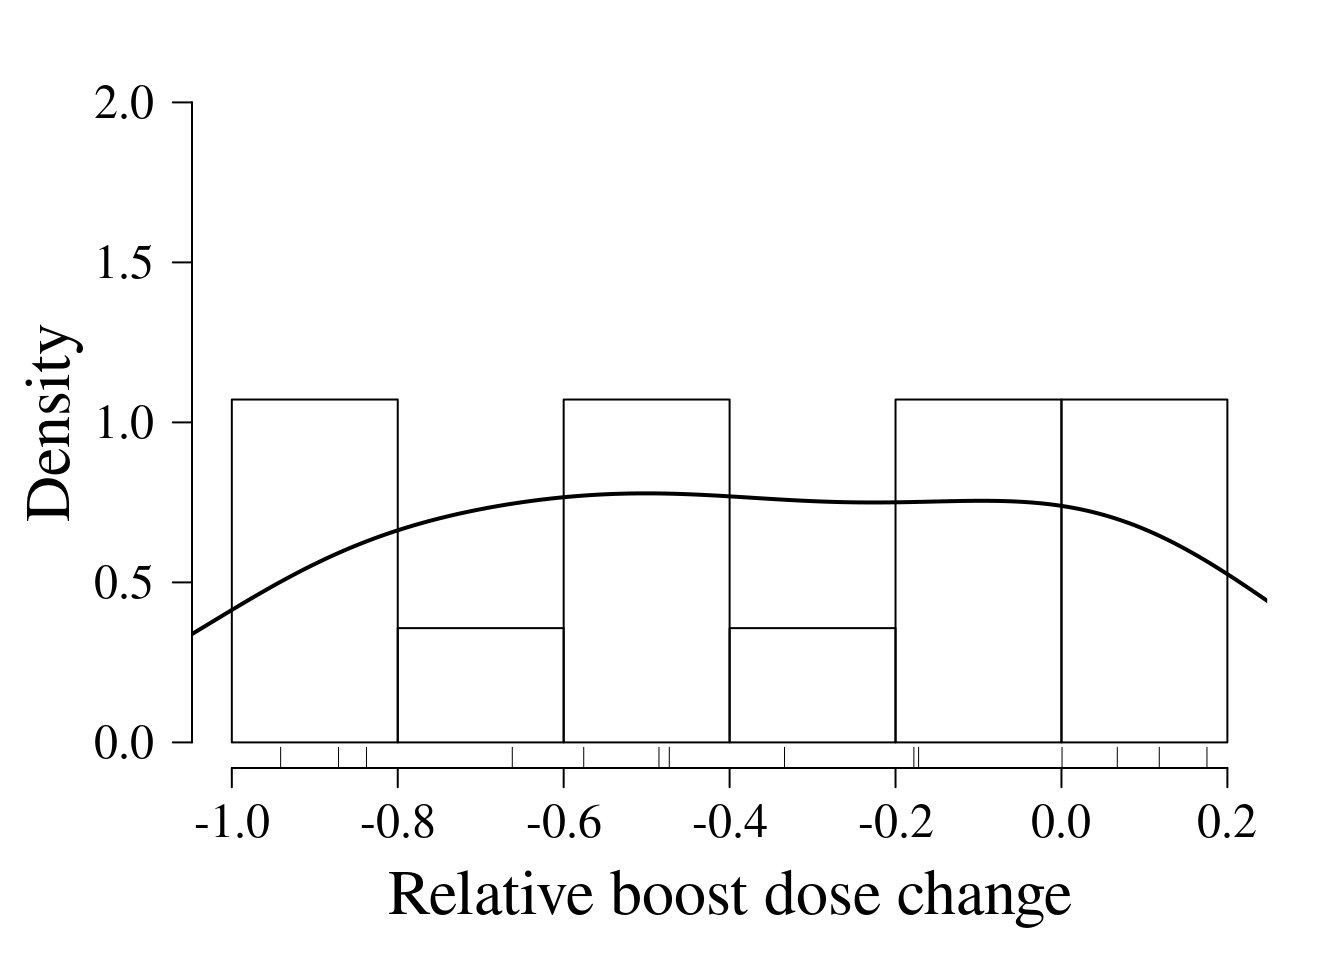
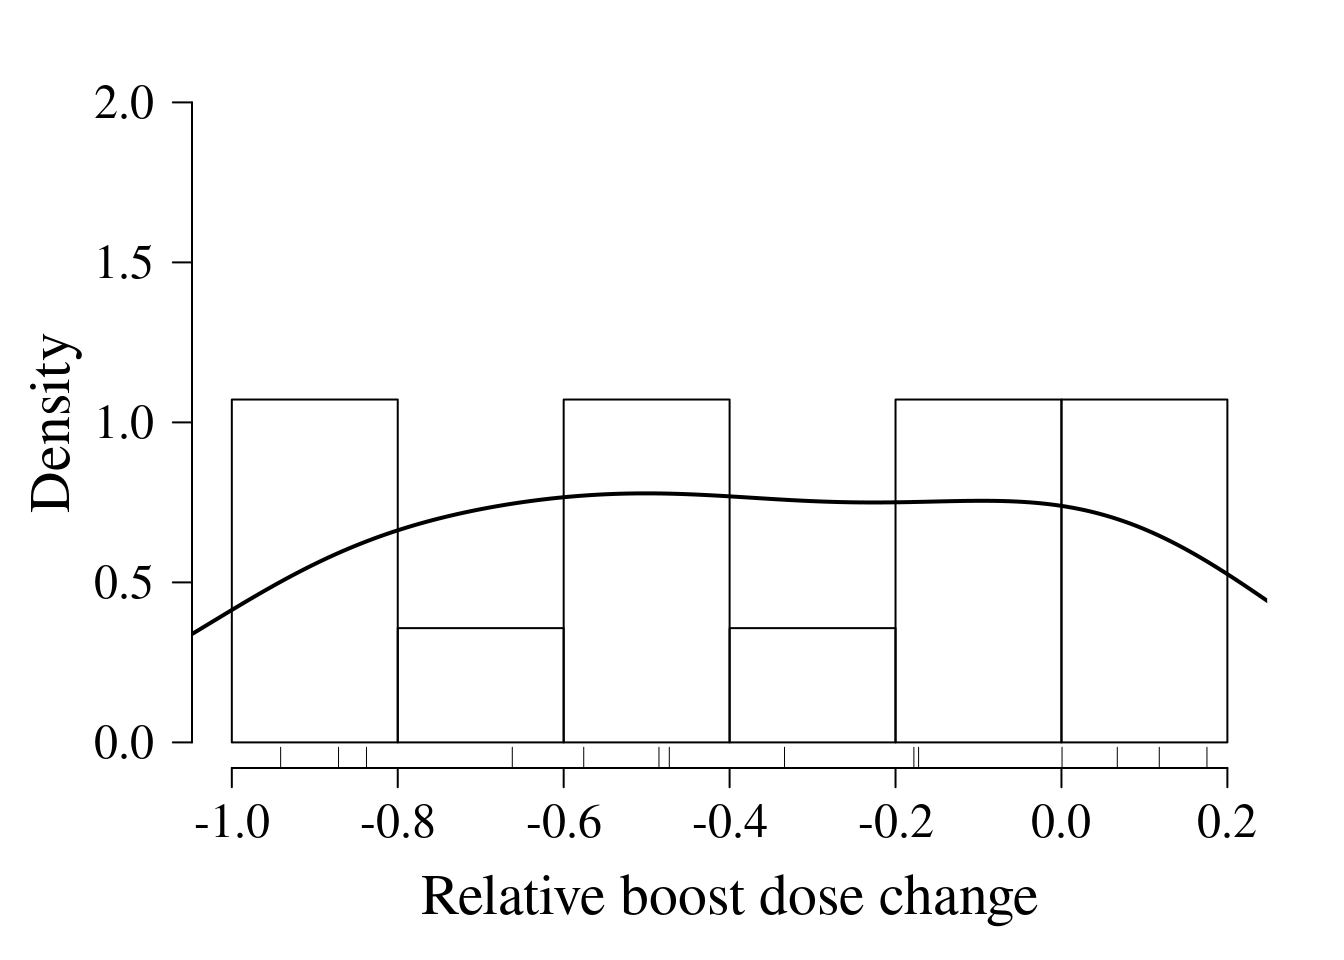
Build site.

Changed region(s): [[0.2812, 0.9062, 0.8125, 0.9688], [0.0, 0.3438, 0.0625, 0.5625]]

diff --git a/docs/allesineinem.html b/docs/allesineinem.html
@@ -517,16 +517,16 @@ This reproducible <a href="http://rmarkdown.rstudio.com">R Markdown</a> analysis
 <div class="panel panel-default">
 <div class="panel-heading">
 <p class="panel-title">
-<a data-toggle="collapse" data-parent="#workflowr-checks" href="#strongRepositoryversionstrongahrefhttpsgithubcomdssrttnTesttree1ac28bed5f0d56620971691e99f0d5365291cfa5targetblank1ac28bea"> <span class="glyphicon glyphicon-ok text-success" aria-hidden="true"></span> <strong>Repository version:</strong> <a href="https://github.com/dssrttn/Test/tree/1ac28bed5f0d56620971691e99f0d5365291cfa5" target="_blank">1ac28be</a> </a>
+<a data-toggle="collapse" data-parent="#workflowr-checks" href="#strongRepositoryversionstrongahrefhttpsgithubcomdssrttnTesttree531371fbb9875bd1e1d6cf5dcd071055a8f3b71dtargetblank531371fa"> <span class="glyphicon glyphicon-ok text-success" aria-hidden="true"></span> <strong>Repository version:</strong> <a href="https://github.com/dssrttn/Test/tree/531371fbb9875bd1e1d6cf5dcd071055a8f3b71d" target="_blank">531371f</a> </a>
 </p>
 </div>
[2 lines of base64/hex data omitted]
 <div class="panel-body">
 <p>
 Great! You are using Git for version control. Tracking code development and connecting the code version to the results is critical for reproducibility.
 </p>
 <p>
-The results in this page were generated with repository version <a href="https://github.com/dssrttn/Test/tree/1ac28bed5f0d56620971691e99f0d5365291cfa5" target="_blank">1ac28be</a>. See the <em>Past versions</em> tab to see a history of the changes made to the R Markdown and HTML files.
+The results in this page were generated with repository version <a href="https://github.com/dssrttn/Test/tree/531371fbb9875bd1e1d6cf5dcd071055a8f3b71d" target="_blank">531371f</a>. See the <em>Past versions</em> tab to see a history of the changes made to the R Markdown and HTML files.
 </p>
 <p>
 Note that you need to be careful to ensure that all relevant files for the analysis have been committed to Git prior to generating the results (you can use <code>wflow_publish</code> or <code>wflow_git_commit</code>). workflowr only checks the R Markdown file, but you know if there are other scripts or data files that it depends on. Below is the status of the Git repository when the results were generated:
@@ -543,12 +543,8 @@ Untracked files:
     Untracked:  Code commit to github
     Untracked:  README.html
     Untracked:  analysis/Patient 1.Rmd
-    Untracked:  code/Bladder_mean_rel.R
-    Untracked:  code/Boxplot_DIL_minus_Boost_mean.R
-    Untracked:  code/Boxplot_to_DIL_mean.R
-    Untracked:  code/Lollipopplot_Boost_mean.R
-    Untracked:  code/Lollipopplot_DIL_mean.R
-    Untracked:  code/Rectum_mean_rel.R
+    Untracked:  code/alltogether_14fractions_20200719.Rmd
+    Untracked:  code/linear_regression_rectum_DIL.R
     Untracked:  data/1/
     Untracked:  data/10/
     Untracked:  data/11/
@@ -585,7 +581,7 @@ Unstaged changes:
     Modified:   analysis/Rechnungen.Rmd
     Modified:   analysis/dilundboost.Rmd
     Modified:   analysis/kable.Rmd
-    Deleted:    code/Boxplot_DIL_mean.R
+    Deleted:    code/alltogether_14fractions.Rmd
 
 </code></pre>
 <p>
@@ -624,6 +620,40 @@ Message
 </tr>
 </thead>
 <tbody>
+<tr>
+<td>
+Rmd
+</td>
+<td>
+<a href="https://github.com/dssrttn/Test/blob/531371fbb9875bd1e1d6cf5dcd071055a8f3b71d/analysis/allesineinem.Rmd" target="_blank">531371f</a>
+</td>
+<td>
+Mein Vorname
+</td>
+<td>
+2020-07-19
+</td>
+<td>
+vor xvi, soweit alles abgeschlossen
+</td>
+</tr>
+<tr>
+<td>
+html
+</td>
+<td>
+<a href="https://rawcdn.githack.com/dssrttn/Test/c48449a28db726a690f6e0ee52d090982b35089d/docs/allesineinem.html" target="_blank">c48449a</a>
+</td>
+<td>
+Mein Vorname
+</td>
+<td>
+2020-07-19
+</td>
+<td>
+Build site.
+</td>
+</tr>
 <tr>
 <td>
 Rmd
@@ -962,6 +992,7 @@ library(scales)
 library(knitr)
 library(kableExtra)
 library(here)
+library(jtools) # for linear regression output. not used so far
 #options(digits=3) # zeigt nur drei Zahlenwerte an
 source(&quot;code/plottheme.R&quot;)
 source(&quot;code/cbPalette.R&quot;)
@@ -1514,7 +1545,7 @@ hist(HistogramDILrelchange$relchange,
          main=&quot;&quot;,
     #DIL Mittelwert&quot; 
      ylab=&quot;Density&quot;, xlab=&quot;Relative DIL dose change&quot;, mgp=c(3,1,0), las = 1, freq = FALSE, ylim=c(0, 2), #xlim=c(-1, 0.3),
-    cex.lab=2, cex.axis=1.5, col = &quot;transparent&quot;)
+    cex.lab=rel(1.8), cex.axis=1.5, col = &quot;transparent&quot;)
 rug(jitter(HistogramDILrelchange$relchange))
 lines(density(HistogramDILrelchange$relchange), col=&quot;black&quot;, lwd=2)</code></pre>
 <p><img src="figure/allesineinem.Rmd/DIL%20histogramm%20relative%20change-1.png" width="672" style="display: block; margin: auto;" /></p>
@@ -1567,7 +1598,7 @@ hist(HistogramBoostrelchange$relchange,
          main=&quot;&quot;,
     #DIL Mittelwert&quot; 
      ylab=&quot;Density&quot;, xlab=&quot;Relative boost dose change&quot;, mgp=c(3,1,0), las = 1, freq = FALSE, ylim=c(0, 2), #xlim=c(-1, 0.3),
-    cex.lab=2, cex.axis=1.5, col = &quot;transparent&quot;)
+    cex.lab=rel(1.8), cex.axis=1.5, col = &quot;transparent&quot;)
 rug(jitter(HistogramBoostrelchange$relchange))
 lines(density(HistogramBoostrelchange$relchange), col=&quot;black&quot;, lwd=2)</code></pre>
 <p><img src="figure/allesineinem.Rmd/Boost%20histogramm%20relative%20change-1.png" width="672" style="display: block; margin: auto;" /></p>
@@ -1614,6 +1645,7 @@ Mein Vorname
 <h2>Relation of DIL and boost</h2>
 <div id="diln-to-boost1---boxplot-with-percentage-relation" class="section level3">
 <h3>DIL[n] to boost[1] - boxplot with percentage relation</h3>
+<p>(Mittelwert_DIL/ Mittelwert_Boost[1])</p>
 <pre class="r"><code>source(here::here(&quot;code/Boxplot_to_DIL_mean.R&quot;))</code></pre>
 <p><img src="figure/allesineinem.Rmd/DIL%20Boxplot-1.png" width="672" style="display: block; margin: auto;" /></p>
 <p>
@@ -1656,6 +1688,7 @@ Mein Vorname
 </div>
 <div id="diln-to-boost1---table-with-percentage-relation" class="section level3">
 <h3>DIL[n] to boost[1] - table with percentage relation</h3>
+<p>(Mittelwert_DIL/ Mittelwert_Boost[1])</p>
 <pre class="r"><code># source(here::here(&quot;code/Boxplot_to_DIL_mean.R&quot;))
 DIL_Boost_mean_relation %&gt;%
  knitr::kable(format =&#39;html&#39;, caption = &quot;&quot;, col.names = c(&quot;DIL to boost relation relative to the first fraction&quot;, &quot;Numbers&quot;)) %&gt;%
@@ -1818,6 +1851,7 @@ Mein Vorname
 </div>
 <div id="dil-minus-boost---table-with-percentage-relation" class="section level3">
 <h3>DIL minus boost - table with percentage relation</h3>
+<p>(Mittelwert_DIL-Mittelwert_Boost)/(Mittelwert_DIL[1]-Mittelwert_Boost[1]))</p>
 <pre class="r"><code># source(here::here(&quot;code/Boxplot_DIL_minus_Boost_mean.R&quot;))
 DIL_minus_Boost_mean_table %&gt;%
   knitr::kable(format =&#39;html&#39;, caption = &quot;&quot;, col.names = c(&quot;DIL minus boost&quot;, &quot;Numbers&quot;)) %&gt;%
@@ -2309,9 +2343,7 @@ Mein Vorname
 </div>
 <div id="linear-regression-rectum-mean-and-dil-mean" class="section level2">
 <h2>Linear regression rectum mean and DIL mean</h2>
-<pre class="r"><code>#source(here::here(&quot;code/Rectum_mean_rel.R&quot;))
-
-plot(Rectum_mean_rel$relchange, DIL_mean_rel$relchange)</code></pre>
+<pre class="r"><code>plot(Rectum_mean_rel$relchange, DIL_mean_rel$relchange)</code></pre>
 <p><img src="figure/allesineinem.Rmd/linear%20regression%20Rectum%20DIL%20means-1.png" width="672" style="display: block; margin: auto;" /></p>
 <p>
 <button type="button" class="btn btn-default btn-xs btn-workflowr btn-workflowr-fig" data-toggle="collapse" data-target="#fig-no-spaces-linear-regression-Rectum-DIL-means-1">
@@ -2618,8 +2650,8 @@ Relative change
 </tbody>
 </table>
 </div>
-<div id="lollipop-plot-for-rectum-mean-changes-relative-to-the-first-fraction-of-rectum-1" class="section level3">
-<h3>Lollipop plot for rectum mean changes relative to the first fraction of rectum</h3>
+<div id="lollipop-plot-for-bladder-mean-changes-relative-to-the-first-fraction-of-bladder" class="section level3">
+<h3>Lollipop plot for bladder mean changes relative to the first fraction of bladder</h3>
 <pre class="r"><code>source(here::here(&quot;code/Bladder_mean_rel.R&quot;))
 
 
@@ -2857,6 +2889,7 @@ Mein Vorname
  httpuv        1.5.4   2020-06-06 [1] CRAN (R 4.0.1)
  httr          1.4.1   2019-08-05 [1] CRAN (R 4.0.1)
  jsonlite      1.6.1   2020-02-02 [1] CRAN (R 4.0.1)
+ jtools      * 2.1.0   2020-06-23 [1] CRAN (R 4.0.2)
  kableExtra  * 1.1.0   2019-03-16 [1] CRAN (R 4.0.1)
  knitr       * 1.29    2020-06-23 [1] CRAN (R 4.0.1)
  later         1.1.0.1 2020-06-05 [1] CRAN (R 4.0.1)
@@ -2868,6 +2901,7 @@ Mein Vorname
  modelr        0.1.8   2020-05-19 [1] CRAN (R 4.0.1)
  munsell       0.5.0   2018-06-12 [1] CRAN (R 4.0.1)
  nlme          3.1-147 2020-04-13 [4] CRAN (R 4.0.0)
+ pander        0.6.3   2018-11-06 [1] CRAN (R 4.0.2)
  pillar        1.4.4   2020-05-05 [1] CRAN (R 4.0.1)
  pkgbuild      1.0.8   2020-05-07 [1] CRAN (R 4.0.1)
  pkgconfig     2.0.3   2019-09-22 [1] CRAN (R 4.0.1)
